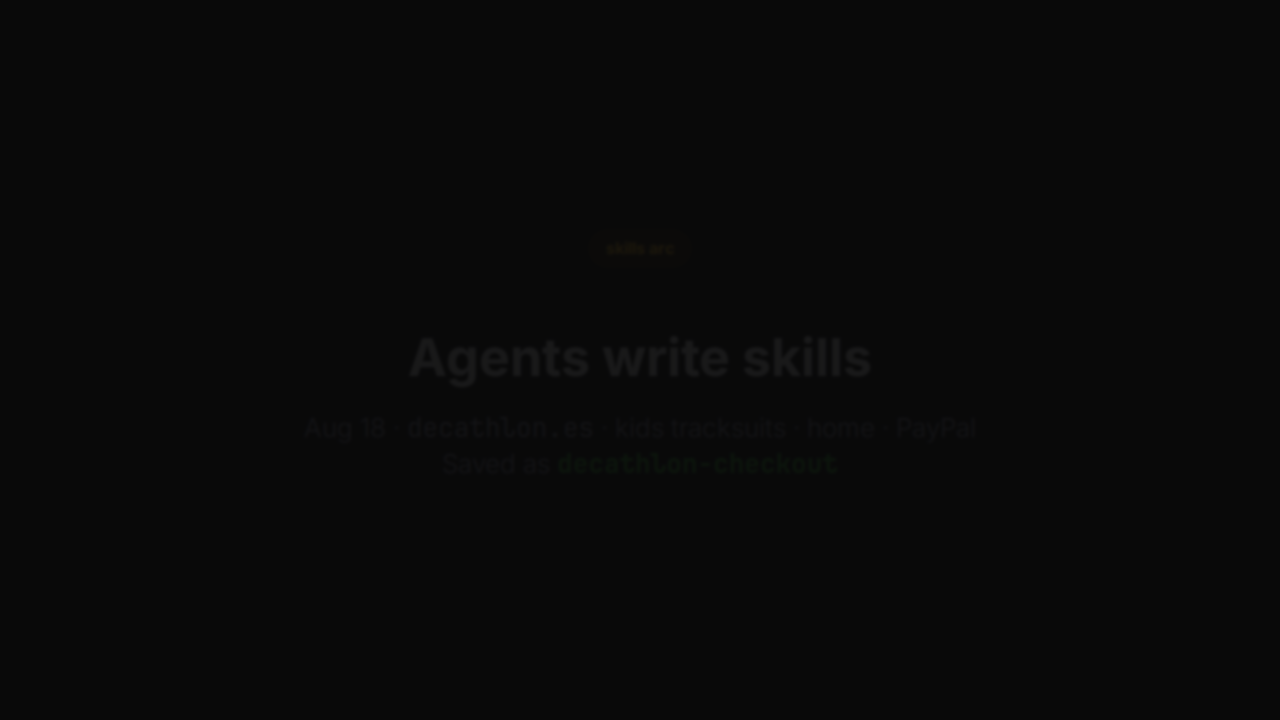
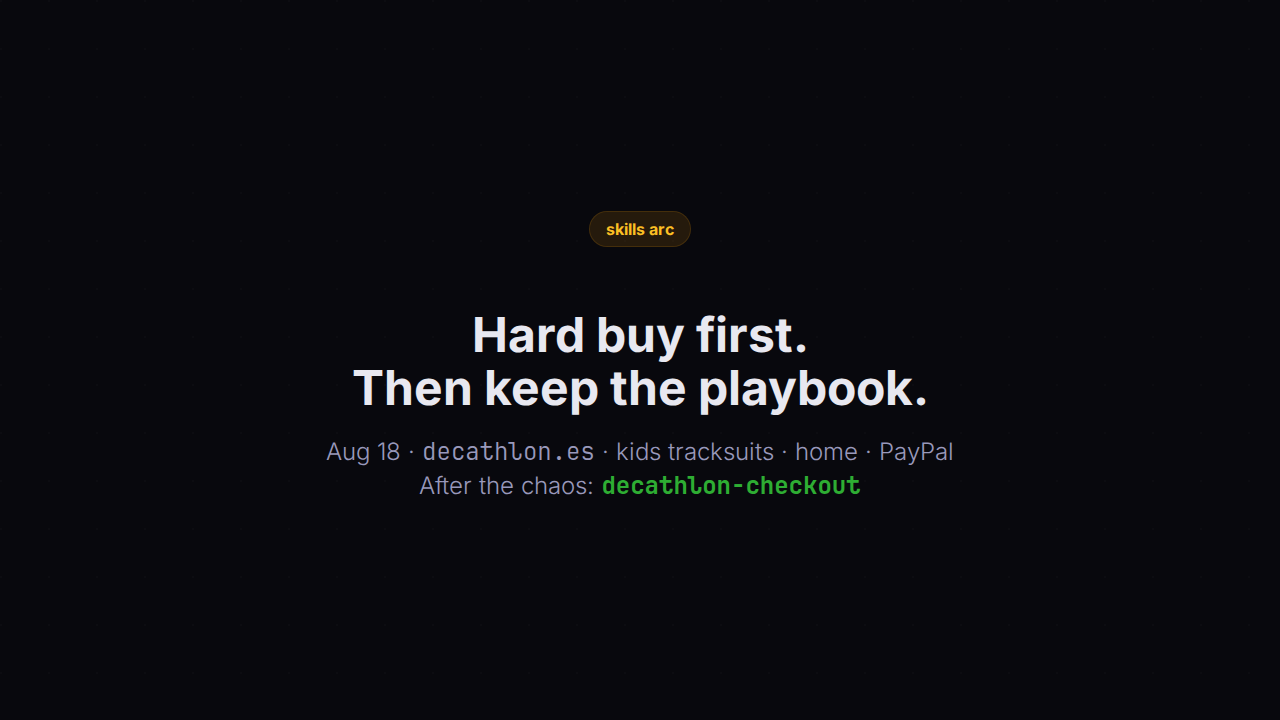
fix: honest Decathlon skill story (no invented save prompt)
Show real Debbie gates (PayPal handoff, tabs, home delivery) then the
skill file. Reuse punch: do the hard buy once; reuse the skill next time.

Changed region(s): [[0.2812, 0.4278, 0.7188, 0.5806], [0.25, 0.6111, 0.75, 0.7028], [0.4375, 0.275, 0.5625, 0.3667]]

diff --git a/infobip-shift-2026-agentic-developer/slides/22a-skill-ask.md b/infobip-shift-2026-agentic-developer/slides/22a-skill-ask.md
@@ -5,26 +5,38 @@ class: devsum-slide
 
 <div class="slide-inner">
 
-<span class="badge badge-blue" style="font-size:14px;padding:5px 14px;margin-bottom:14px">the human prompt</span>
+<span class="badge badge-orange" style="font-size:14px;padding:5px 14px;margin-bottom:10px">live buy · real lines</span>
 
-<h2 style="margin-bottom:12px">How the skill got saved</h2>
+<h2 style="font-size:36px;margin-bottom:8px">What I actually said</h2>
+<p class="lede" style="margin-bottom:8px">Messy gates. Not "please save a skill."</p>
 
-<div class="task-card" style="border-color:var(--accent);padding:22px 26px;max-width:980px;margin:0 auto">
-  <span class="task-id" style="color:var(--accent)">Debbie</span>
-  <p style="font-size:28px;line-height:1.35;color:var(--text);font-weight:700;margin:10px 0 0">
-    "Can you save that Decathlon checkout as a skill so next PayPal run is smoother?"
-  </p>
+<div class="card-stack" style="gap:8px;max-width:1040px">
+  <div class="task-card" style="border-color:var(--accent);padding:12px 18px">
+    <span class="task-id" style="color:var(--accent)">Debbie</span>
+    <p style="font-size:20px;line-height:1.35;color:var(--text);font-weight:700;margin:6px 0 0">
+      "ok hand it off to me if needed or just click paypal button"
+    </p>
+  </div>
+  <div class="task-card" style="border-color:var(--blue);padding:12px 18px">
+    <span class="task-id" style="color:var(--blue)">Debbie</span>
+    <p style="font-size:20px;line-height:1.35;color:var(--text);font-weight:700;margin:6px 0 0">
+      "Can you close all paypal tabs and just stick with the one that we are working on"
+    </p>
+  </div>
+  <div class="task-card" style="border-color:var(--purple);padding:12px 18px">
+    <span class="task-id" style="color:var(--purple)">Debbie</span>
+    <p style="font-size:20px;line-height:1.35;color:var(--text);font-weight:700;margin:6px 0 0">
+      "Switch to home delivery … then I'll log into PayPal"
+    </p>
+  </div>
 </div>
-
-<p style="font-size:24px;color:var(--text-dim);margin:22px auto 0;max-width:980px;text-align:center">
-  Ask once. Agent writes the playbook. Next buy reuses it.
-</p>
 
 </div>
 
 <!--
-PRESENTER NOTES: SKILL ASK
-- This is the move people need to learn. Not magic. You ask.
-- Close to how I actually talk to the shopping bot after a messy checkout.
-- Then Save becomes decathlon-checkout.
+PRESENTER NOTES: REAL LINES
+- Honest: I never typed "save as skill" before decathlon-checkout existed.
+- These are the gates that shaped the playbook: PayPal handoff, tab chaos, home delivery.
+- Skill was written after the hard win (agent/team), dated ~28 Aug.
+- Optional line off-slide: "Okay, I think I filled in everything so go ahead and finalize the payment."
 -->

diff --git a/infobip-shift-2026-agentic-developer/slides/23-skill-loop.md b/infobip-shift-2026-agentic-developer/slides/23-skill-loop.md
@@ -10,11 +10,11 @@ class: devsum-slide
 <div style="display:grid;grid-template-columns:1fr 1fr;gap:18px;margin-top:18px;max-width:1000px">
   <div class="diagram-node blue" style="min-height:150px;padding:22px 18px">
     <div class="label" style="font-size:32px;margin-bottom:10px">1 · Do</div>
-    <div class="sub" style="font-size:22px;margin:0">Shop once</div>
+    <div class="sub" style="font-size:22px;margin:0">Hard buy once</div>
   </div>
   <div class="diagram-node orange" style="min-height:150px;padding:22px 18px">
     <div class="label" style="font-size:32px;margin-bottom:10px">2 · Friction</div>
-    <div class="sub" style="font-size:22px;margin:0">Qty · PayPal wall</div>
+    <div class="sub" style="font-size:22px;margin:0">Qty · PayPal tabs</div>
   </div>
   <div class="diagram-node purple" style="min-height:150px;padding:22px 18px">
     <div class="label" style="font-size:32px;margin-bottom:10px">3 · Save</div>
@@ -22,7 +22,7 @@ class: devsum-slide
   </div>
   <div class="diagram-node green" style="min-height:150px;padding:22px 18px">
     <div class="label" style="font-size:32px;margin-bottom:10px">4 · Reuse</div>
-    <div class="sub" style="font-size:22px;margin:0">Next time I just say buy it</div>
+    <div class="sub" style="font-size:20px;margin:0;line-height:1.25">Do the hard buy once; reuse the skill next time</div>
   </div>
 </div>
 
@@ -30,6 +30,7 @@ class: devsum-slide
 
 <!--
 PRESENTER NOTES: SKILL LOOP
-- Big readable 2x2. Walk Do → Friction → Save → Reuse.
-- Reuse line: Next time I just say buy it.
+- Big readable 2x2. Save happened AFTER the win.
+- Punch: Do the hard buy once; reuse the skill next time.
+- Also good: PayPal still mine. The skill remembers the rest.
 -->

diff --git a/infobip-shift-2026-agentic-developer/slides/22-skill-divider.md b/infobip-shift-2026-agentic-developer/slides/22-skill-divider.md
@@ -7,19 +7,20 @@ class: devsum-slide
 
 <span class="badge badge-orange" style="font-size:16px;padding:6px 16px;margin-bottom:22px">skills arc</span>
 
-<p style="font-size:52px;color:var(--text);font-weight:900;margin:0 auto 24px;line-height:1.1;max-width:1000px">
-  Agents write skills
+<p style="font-size:48px;color:var(--text);font-weight:900;margin:0 auto 20px;line-height:1.1;max-width:1040px">
+  Hard buy first.<br>
+  Then keep the playbook.
 </p>
 
-<p style="font-size:26px;line-height:1.4;color:var(--text-dim);max-width:900px;margin:0 auto">
+<p style="font-size:24px;line-height:1.4;color:var(--text-dim);max-width:920px;margin:0 auto">
   Aug 18 · <span class="mono">decathlon.es</span> · kids tracksuits · home · PayPal<br>
-  Saved as <span class="mono accent bold">decathlon-checkout</span>
+  After the chaos: <span class="mono accent bold">decathlon-checkout</span>
 </p>
 
 </div>
 
 <!--
 PRESENTER NOTES: SKILL DIVIDER
-- Outcome first. Next slide is the human ask that made it a skill.
+- Skill came AFTER the messy buy. Not from a magic "save skill" prompt.
 - Never show address.
 -->

diff --git a/infobip-shift-2026-agentic-developer/slides/25-takeaways.md b/infobip-shift-2026-agentic-developer/slides/25-takeaways.md
@@ -20,8 +20,8 @@ class: devsum-slide
   </div>
   <div class="task-card">
     <span class="task-id" style="color:var(--purple)">03</span>
-    <h3>When a flow works, ask to save a skill</h3>
-    <p>You prompt it. Agent writes <span class="mono">decathlon-checkout</span>. Next time I just say buy it.</p>
+    <h3>After a hard win, keep the playbook</h3>
+    <p>Skill written after Decathlon chaos. <span class="mono">decathlon-checkout</span>. PayPal still mine. The skill remembers the rest.</p>
   </div>
 </div>
 
@@ -30,5 +30,5 @@ class: devsum-slide
 <!--
 PRESENTER NOTES: TAKEAWAYS
 - Three things. Titles first.
-- Takeaway 3 is the move: ask to save the skill.
+- Takeaway 3: skills are recipes you keep after a hard win. Not magic from "please save a skill."
 -->

diff --git a/infobip-shift-2026-agentic-developer/slides/22b-paypal-human.md b/infobip-shift-2026-agentic-developer/slides/22b-paypal-human.md
@@ -26,7 +26,7 @@ class: devsum-slide
 </div>
 
 <p class="footer-note" style="text-align:center;margin-top:20px">
-  Same trust loop as room numbers.
+  PayPal still mine. The skill remembers the rest.
 </p>
 
 </div>
